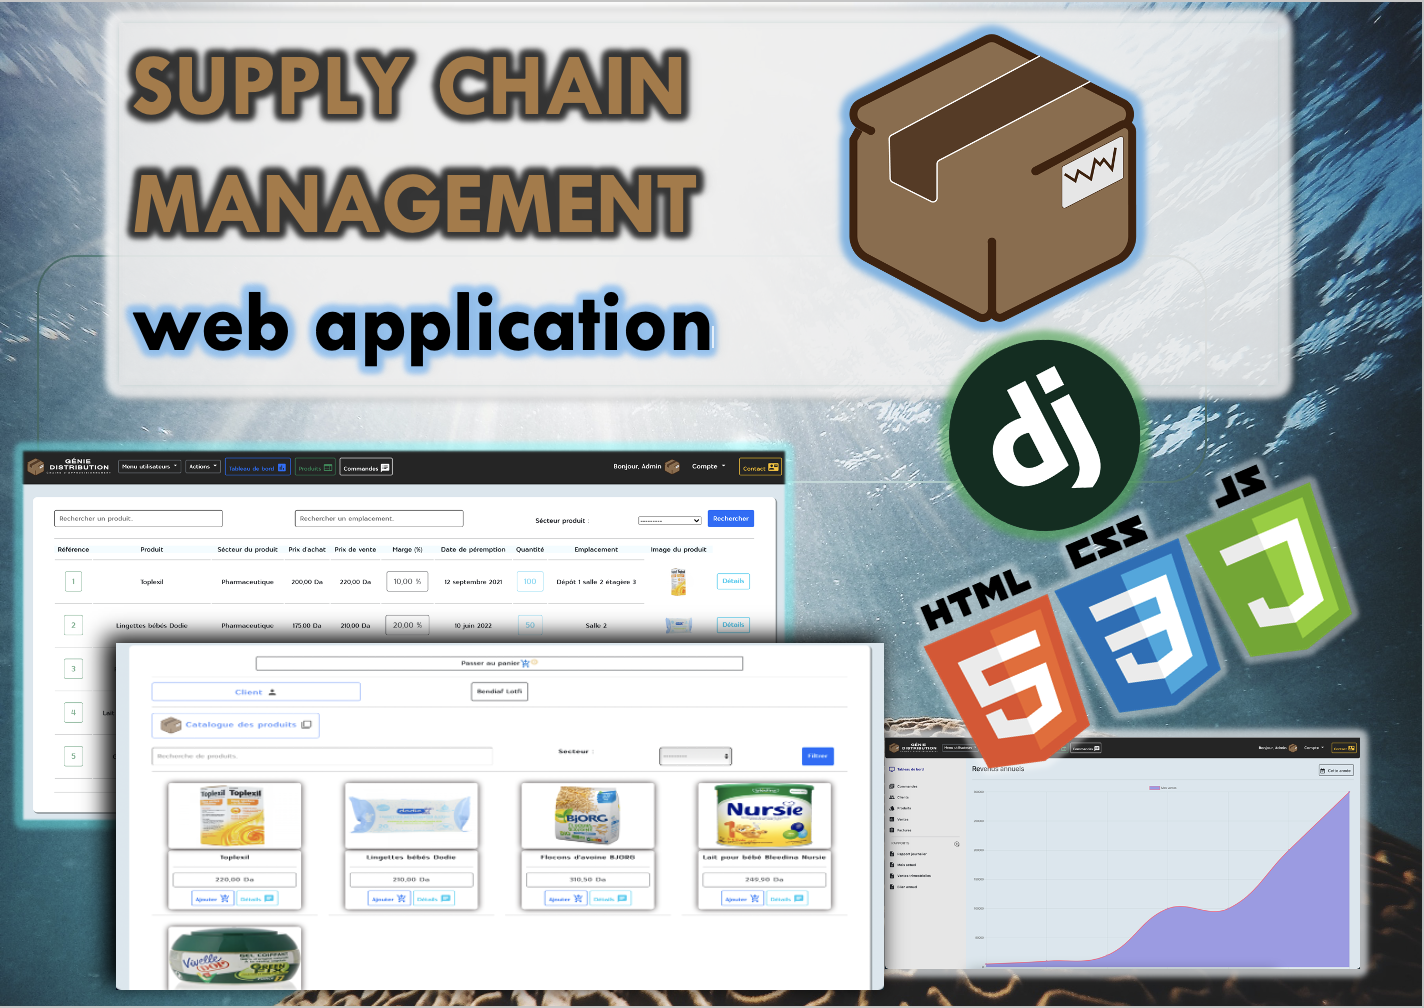
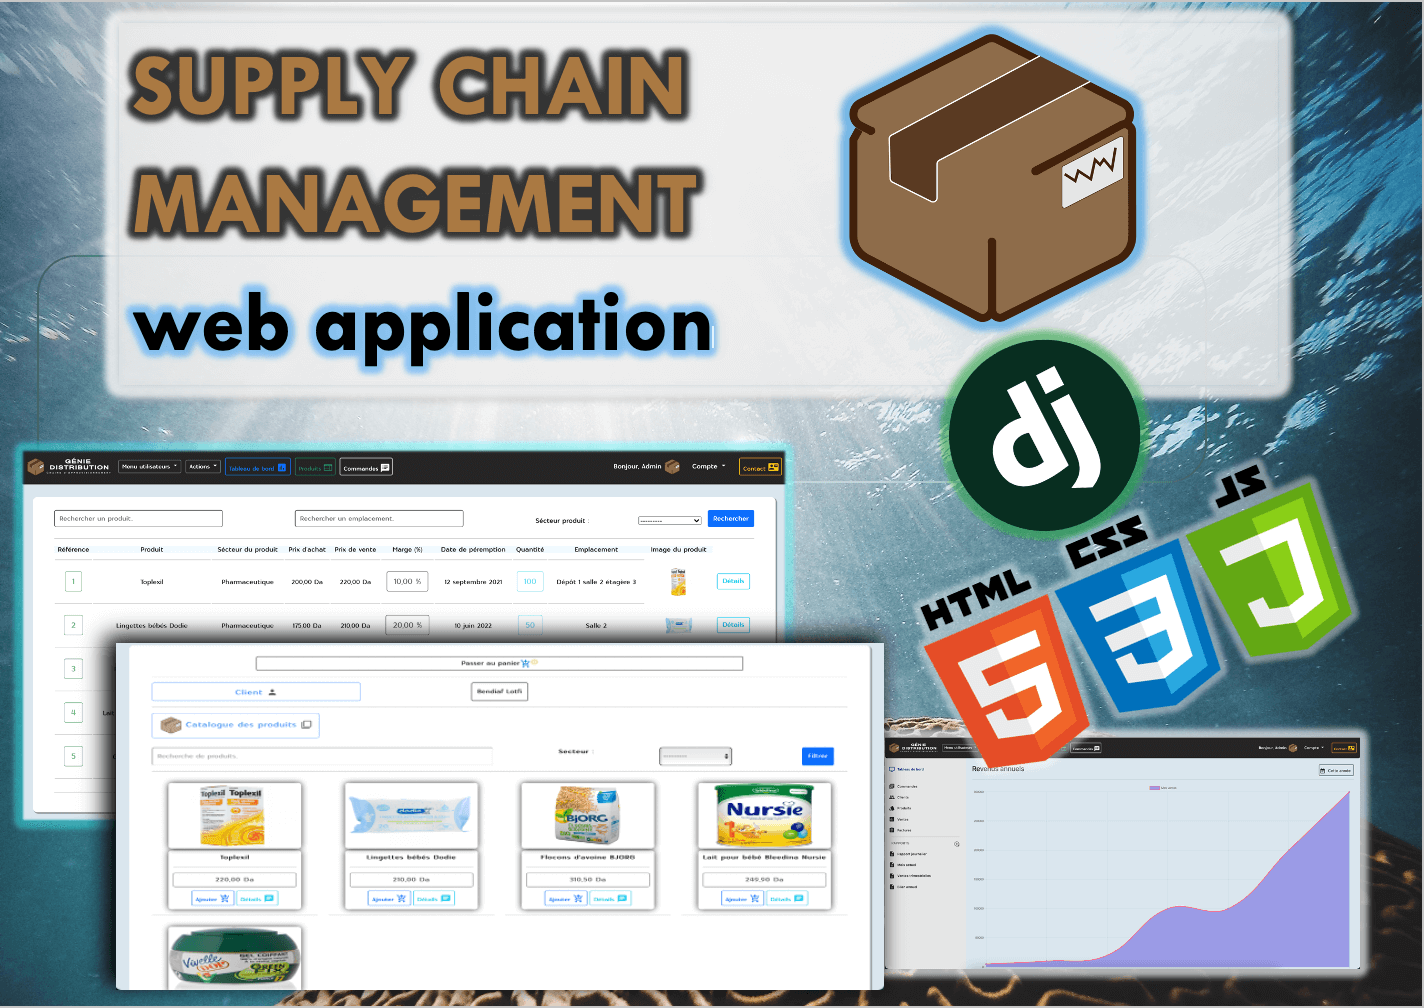
Reduce files sizes

diff --git a/templates/index.html b/templates/index.html
@@ -5,6 +5,8 @@
     <meta charset='utf-8'>
     <meta http-equiv='X-UA-Compatible' content='IE=edge'>
 
+	<link rel="icon" type="image/png" sizes="100x100" href="{% static "images/Shop_Mountain-icon.png" %}">
+
     <title>Lotfi Bendiaf</title>
 
     <meta name='viewport' content='width=device-width, initial-scale=1'>
@@ -232,12 +234,13 @@
         <h1 style="text-align: center; margin: 0; padding: 20px;">Some logos & designs</h1>
         <div class="logos">
             <img style="width: 150px; height: 170px;" src="{% static "Images/genie_distribution_icon.png" %}">
-            <img style="width: 150px; height: 200px;" src="{% static "Images/Lyon.png" %}">
+            <img style="width: 150px; height: 170px;" src="{% static "Images/Lyon.png" %}">
             <img style="width: 150px; height: 150px;" src="{% static "Images/Quiosk-icon-3.png" %}">
             <img style="width: 200px; height: 170px;" src="{% static "Images/Circles-logo.png" %}">
             <img style="width: 170px; height: 170px;" src="{% static "Images/cats.png" %}">
             <img style="width: 150px; height: 150px;" src="{% static "Images/Shop_Mountain-icon.png" %}">
             <img style="width: 170px; height: 170px;" src="{% static "Images/Saloon_icon.png" %}">
+            <img style="width: 250px; height: 170px;" src="{% static "Images/pick.png" %}">
         </div>
         <div class="designs">
             <img style="width: 250px; height: 250px; border-radius: 7px;" src="{% static "Images/Quiosk_Flyer-mockup.jpg" %}">

diff --git a/static/Styles/default.css b/static/Styles/default.css
@@ -359,12 +359,20 @@ ul{
 }
 
 .logos {
+	display: grid;
+	grid-gap: 10px;
+	justify-content: center;
+	align-content: center;
 	text-align: center;
+	grid-template-columns: auto auto auto auto auto auto auto auto;
+	margin: 20px;
 }
 
 .designs {
 	display: grid;
 	grid-gap: 10px;
+	justify-content: center;
+	align-content: center;
 	grid-template-columns: auto auto auto auto auto;
 	margin: 20px;
 }
@@ -436,6 +444,13 @@ ul{
 	.main-container{
 		width: 95%;
 	}
+	.logos {
+		grid-template-columns: auto auto auto auto;
+	}
+
+	.designs {
+		grid-template-columns: auto auto auto;
+	}
 }
 
 @media screen and (max-width: 800px){
@@ -451,6 +466,14 @@ ul{
 		justify-content: left;
 		transform: scale(0.9);
 	}
+
+	.logos {
+		grid-template-columns: auto auto auto;
+	}
+
+	.designs {
+		grid-template-columns: auto auto;
+	}
 	
 }
 
@@ -459,7 +482,16 @@ ul{
 		justify-content: center;
 		transform: scale(0.7);
 	}
+
+	.logos {
+		grid-template-columns: auto;
 	}
+
+	.designs {
+		grid-template-columns: auto;
+	}
+}
+
 
 #test {
 	border: 2px solid orange;
